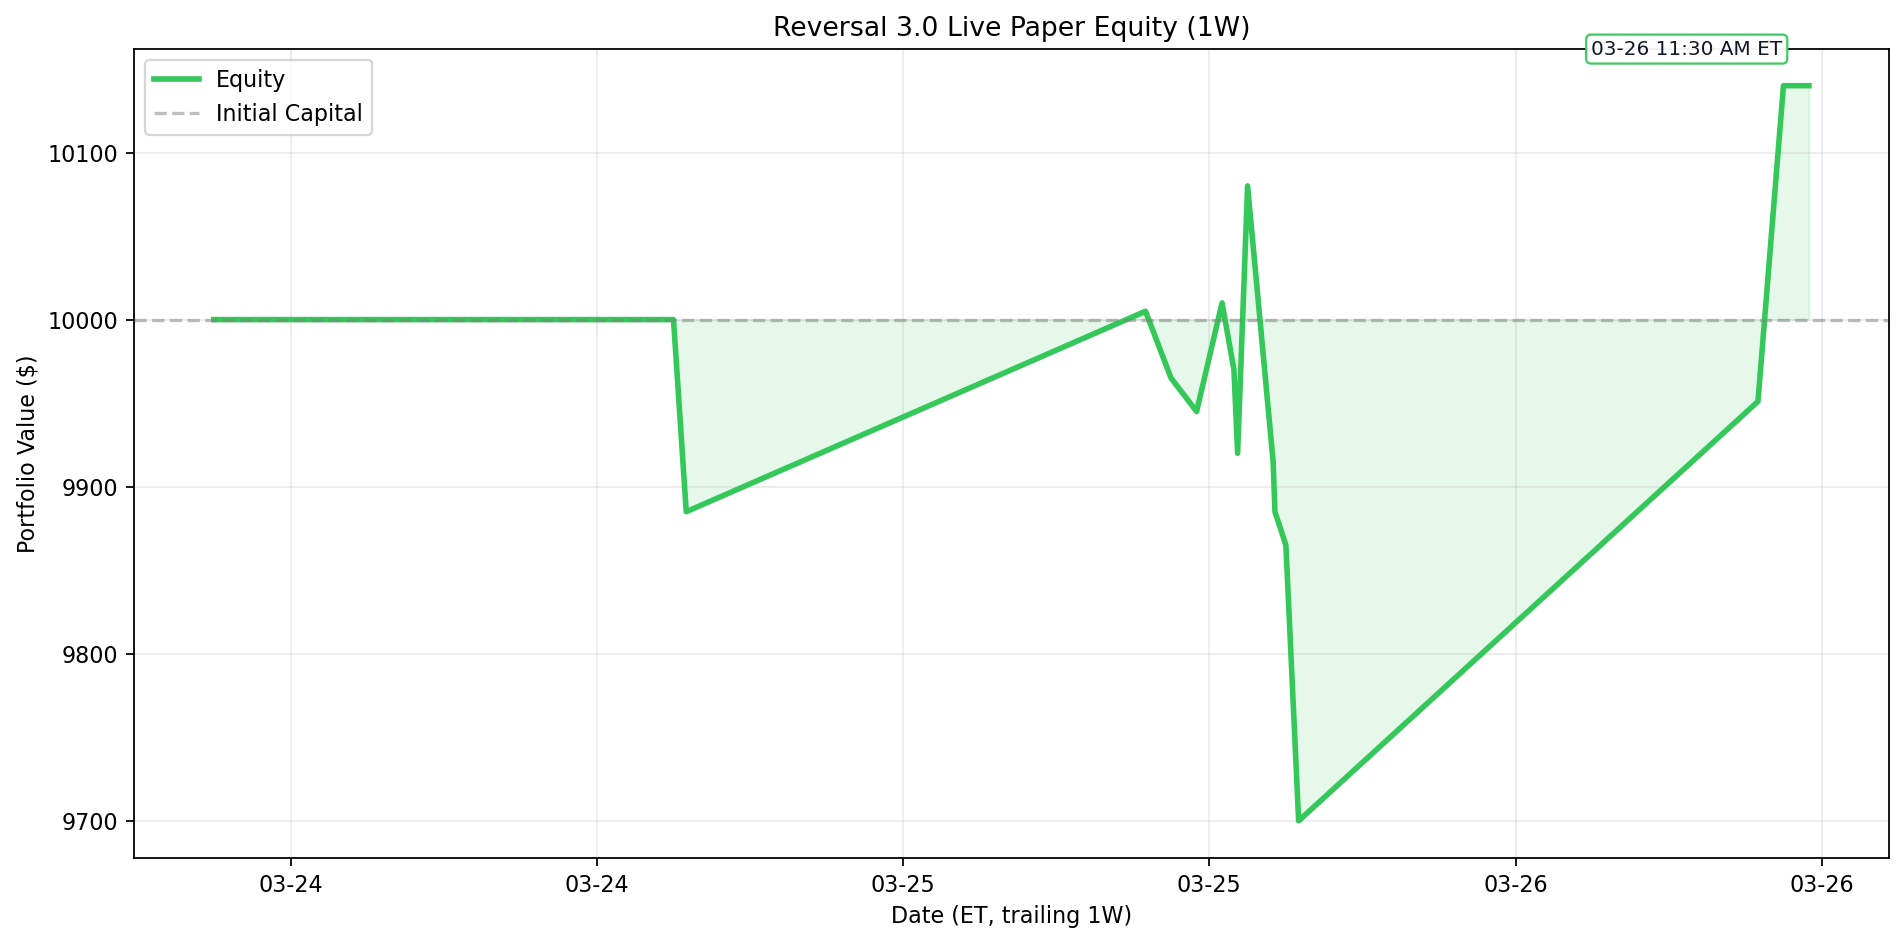
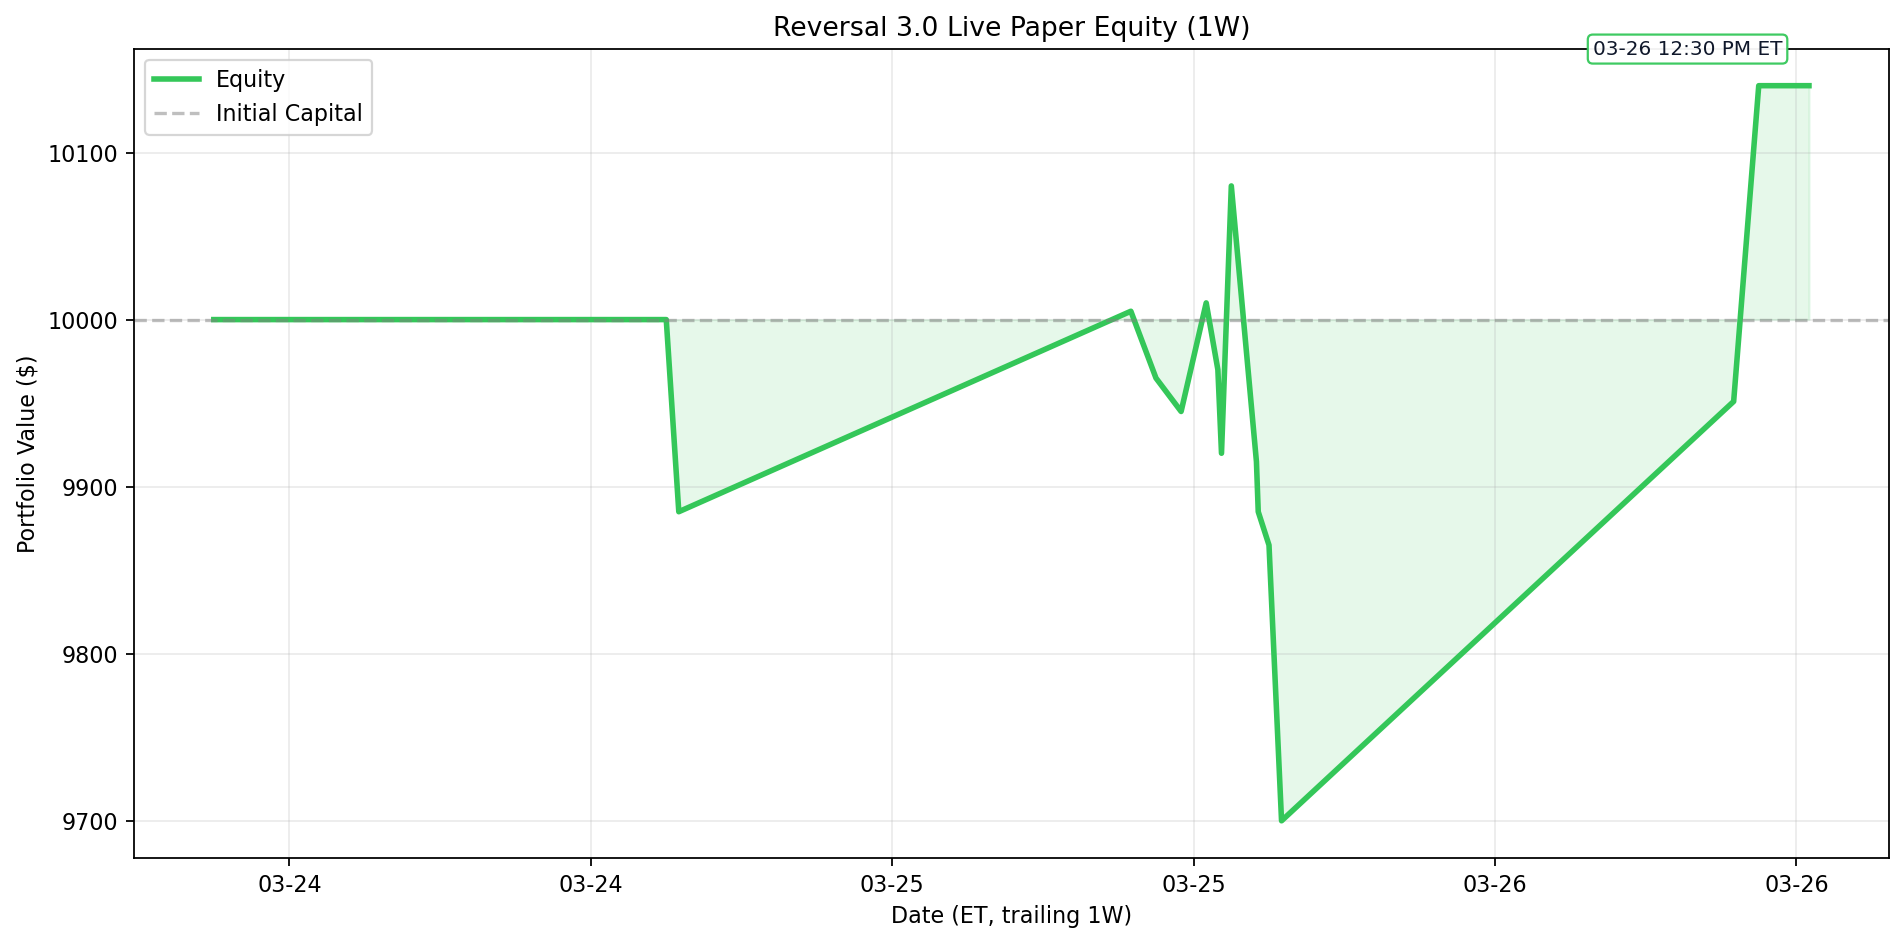
Update Reversal 3.0 live paper test 2026-03-26 12:30 ET

diff --git a/results/reversal_3_0_live/README.md b/results/reversal_3_0_live/README.md
@@ -1,7 +1,7 @@
 # Reversal 3.0 Live Paper Test
 
-Last updated (ET): `2026-03-26 11:30:00 EDT`
-Last processed slot: `manage_1130`
+Last updated (ET): `2026-03-26 12:30:00 EDT`
+Last processed slot: `manage_1230`
 
 ## Active Configuration
 
@@ -41,18 +41,18 @@ ticker     contract_symbol entry_trade_date_et exit_trade_date_et  entry_option_
 
 ```text
 ticker  success_rate_%  matched_signals  current_drop_%  target_rebound_$  target_price  rolling_sigma_20d_%  call_candidate
-  SBUX           96.30               27            0.86              0.56         92.46                29.63            True
-   WDC           92.31               13            5.15             10.69        291.56                73.45            True
-  NVDA           92.31               13            2.62              3.28        177.28                32.16            True
-   STX           91.67               12            5.02             14.51        407.00                69.64            True
-  AVGO           90.91               22            1.94              4.33        316.95                37.11            True
-  PCAR           89.74               39            0.57              0.47        116.14                24.57            True
-  TSLA           84.62               26            1.56              4.21        384.15                32.52            True
-   TXN           82.14               28            0.97              1.33        196.20                29.17            True
-  AXON           81.40               43            0.72              2.33        459.15                52.47            True
-  MPWR           80.95               21            2.52             19.70       1110.22                43.00            True
-  MNST           80.00               30            0.69              0.35         73.06                27.38            True
-   ADI           80.00               25            1.04              2.35        321.02                31.26            True
+   WDC           92.86               14            4.89             10.14        291.79                73.45            True
+  SBUX           92.86               14            1.64              1.06         92.24                29.63            True
+  MRVL           91.89               37            0.85              0.59         98.20                74.71            True
+  NVDA           91.67               12            2.73              3.41        177.22                32.16            True
+   STX           90.91               11            5.53             16.00        406.36                69.64            True
+  AVGO           89.47               19            2.14              4.78        316.76                37.11            True
+  SNPS           88.89               36            1.17              3.36        408.69                32.59            True
+   MAR           88.89               36            0.57              1.31        326.23                28.20            True
+  PCAR           87.88               33            0.85              0.69        116.04                24.57            True
+  PLTR           85.71               14            3.64              3.95        153.27                44.81            True
+  SHOP           85.37               41            0.99              0.82        118.07                51.12            True
+  CHTR           85.29               34            0.86              1.32        218.34                37.90            True
 ```
 
 ## Recent Events

diff --git a/README.md b/README.md
@@ -3,10 +3,10 @@
 <!-- reversal-3.0-live:start -->
 ## Reversal 3.0 Live Paper Test
 
-- Last updated (ET): `2026-03-26 11:30:00 EDT`
+- Last updated (ET): `2026-03-26 12:30:00 EDT`
 - Equity: `$10,140.00` | Realized: `$140.00` | Unrealized: `$0.00` | Open positions: `0`
 - Today closed trades: `2`
-- Current slot: `manage_1130`
+- Current slot: `manage_1230`
 - Chart: trailing `1W` with ET timestamps
 
 _None_
